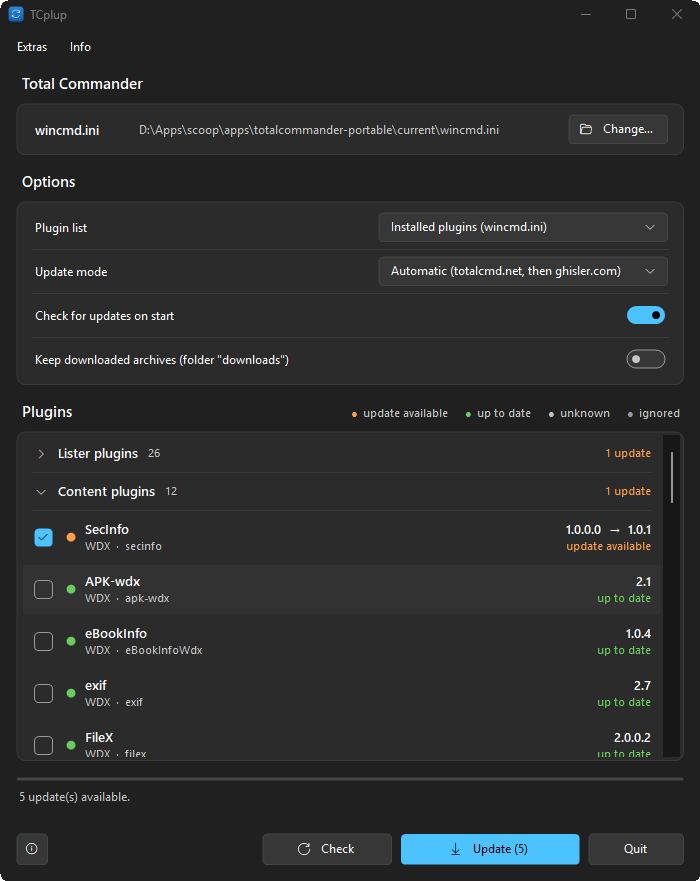
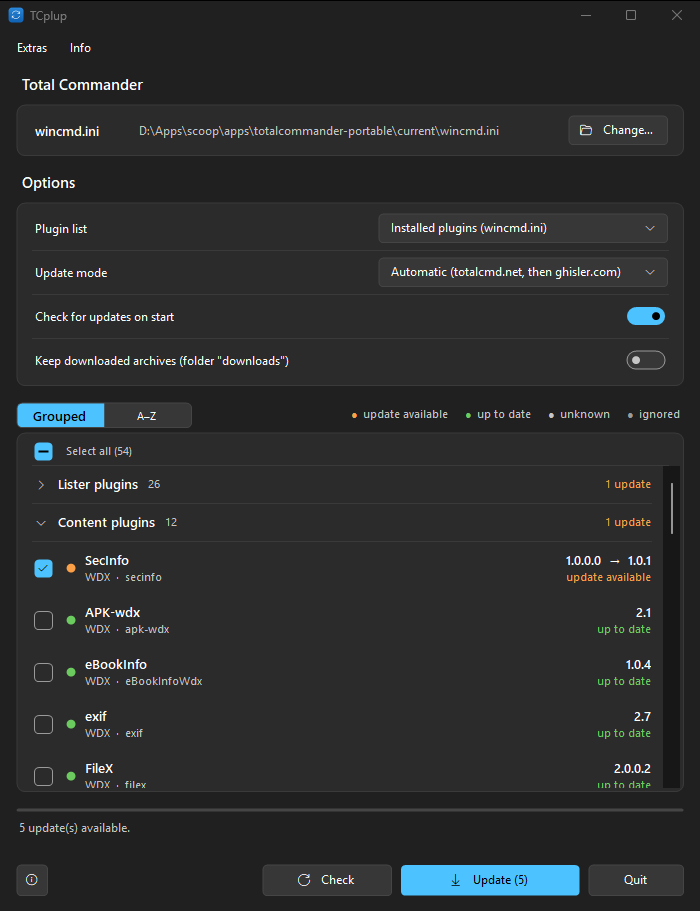
TCplup 1.1.0

diff --git a/README.de.md b/README.de.md
@@ -36,7 +36,8 @@ Ein Updater für Plugins des [Total Commanders](https://www.ghisler.com). Er lie
 
 | Element | Funktion |
 |---|---|
-| Liste **Plugins** | Nach Typ gruppiert: **Lister**-, **Content**-, **Packer**- und **Dateisystem**-Plugins. Auf eine Gruppenzeile klicken (oder Links/Rechts bzw. Leertaste darauf), um sie zu- oder aufzuklappen; sie zeigt die Anzahl der Plugins und der Updates. **Orange** = Update verfügbar (standardmäßig angehakt), **grün** = aktuell, **grau** = unbekannt oder keine Quelle gefunden. Auf das Kästchen klicken (oder Leertaste), um ein Plugin an- oder abzuwählen. In jeder Gruppe stehen Plugins mit Update oben. Mehrere Plugins wählst du mit Strg und Umschalt. |
+| Liste **Plugins** | Der Umschalter über der Liste zeigt die Plugins **Gruppiert** nach Typ – **Lister**-, **Content**-, **Packer**- und **Dateisystem**-Plugins – oder als eine nach **A–Z** sortierte Liste. Plugins mit Update stehen in beiden Ansichten oben. In der gruppierten Ansicht auf eine Gruppenzeile klicken (oder Links/Rechts bzw. Leertaste darauf), um sie zu- oder aufzuklappen; sie zeigt die Anzahl der Plugins und der Updates. **Orange** = Update verfügbar (standardmäßig angehakt), **grün** = aktuell, **grau** = unbekannt oder keine Quelle gefunden. Auf das Kästchen klicken (oder Leertaste), um ein Plugin an- oder abzuwählen. Mehrere Plugins wählst du mit Strg und Umschalt. |
+| Kontrollkästchen über der Liste | Wählt viele Plugins auf einmal an oder ab. Jeder Klick geht einen Schritt weiter: **Aktualisierungen auswählen**, dann **Alles auswählen**, dann **Auswahl aufheben**; das Kästchen zeigt, was gerade angehakt ist (leer, Strich bei einigen, Haken bei allen), und der Text daneben sagt, was der nächste Klick tut. Es wirkt auf die angezeigten Plugins, bei aktivem Legendenfilter also nur auf diese. |
 | **Legende** (über der Liste) | *Update verfügbar*, *aktuell*, *unbekannt* und *ignoriert* sind Filter: Klick zeigt nur diese Plugins, erneuter Klick wieder alle. *ignoriert* ist deine Ignore-Liste. |
 | **Prüfen** | Sucht für alle Plugins erneut nach Updates. |
 | **Aktualisieren (n)** | Installiert die angehakten Plugins. Während des Updates wird *Beenden* zu **Abbrechen**. |

diff --git a/README.md b/README.md
@@ -36,7 +36,8 @@ An updater for [Total Commander](https://www.ghisler.com) plugins. It reads the 
 
 | Element | What it does |
 |---|---|
-| **Plugins** list | Grouped by type: **Lister**, **Content**, **Packer** and **File system** plugins. Click a group header (or press Left/Right or Space on it) to collapse or expand it; the header shows the number of plugins and of updates. **Orange** = update available (ticked by default), **green** = up to date, **grey** = unknown or no source found. Click the box (or press Space) to tick or untick a plugin. Inside a group, plugins with an update come first. Select several plugins with Ctrl and Shift. |
+| **Plugins** list | The switch above the list shows the plugins **Grouped** by type – **Lister**, **Content**, **Packer** and **File system** plugins – or as one list sorted **A–Z**. Plugins with an update come first in both views. In the grouped view, click a group header (or press Left/Right or Space on it) to collapse or expand it; the header shows the number of plugins and of updates. **Orange** = update available (ticked by default), **green** = up to date, **grey** = unknown or no source found. Click the box (or press Space) to tick or untick a plugin. Select several plugins with Ctrl and Shift. |
+| Checkbox above the list | Ticks and unticks many plugins at once. Each click moves on: **select the updates**, then **select all**, then **clear the selection**; the box shows what is ticked right now (empty, a dash for some, a check mark for all) and the text next to it says what the next click does. It acts on the plugins that are shown, so with a legend filter active only on those. |
 | **Legend** (above the list) | *update available*, *up to date*, *unknown* and *ignored* are filters: click one to show only those plugins, click again to show all. *ignored* is your ignore list. |
 | **Check** | Looks for updates again for all plugins. |
 | **Update (n)** | Installs the ticked plugins. During the update, *Quit* becomes **Cancel**. |
